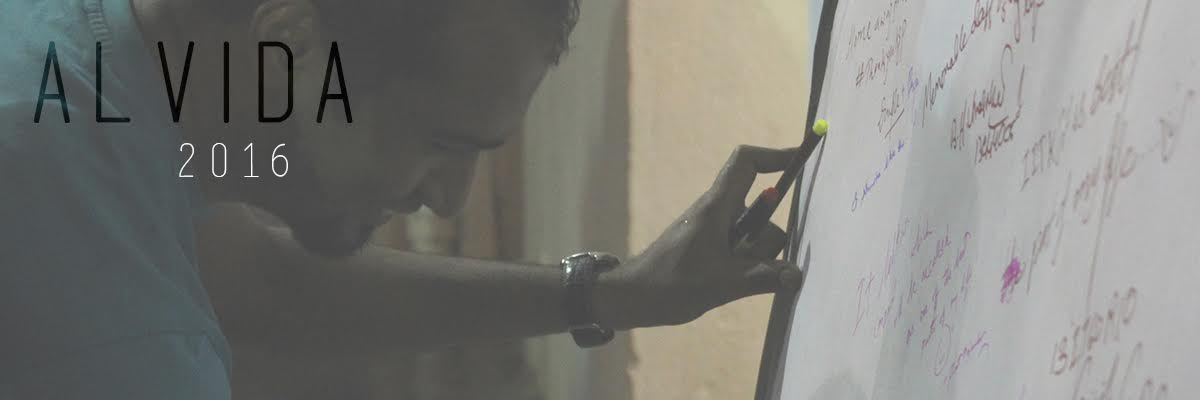
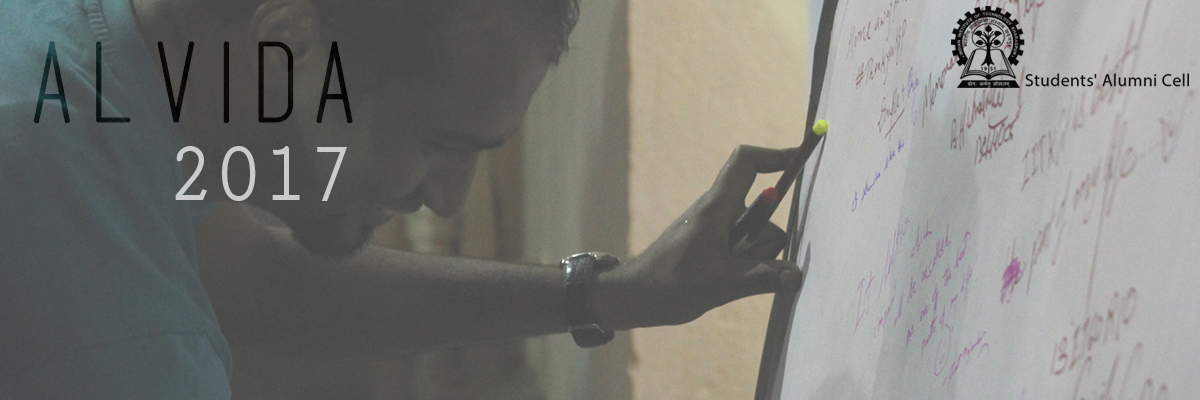
sac changes

Changed region(s): [[0.7708, 0.0, 1.0, 0.24], [0.1233, 0.36, 0.3083, 0.51]]

diff --git a/index.php b/index.php
@@ -207,7 +207,7 @@
 </div>
 <div class="heading">
   <center>
-    <h class="subheading"><b>Latest Programs</b></h>
+    <h class="subheading"><b>Latest Programmes</b></h>
   </center>
 </div>
 <div class="row">
@@ -217,11 +217,11 @@
      <img class="activator" src="img/latest programs/classgift.jpg" style="height: 225px;" >
     </div>
     <div class ="card-content">
-      <span class="card-title activator grey-text text-darken-4">Class Gift of 2015<i class="material-icons right">more_vert</i></span>
-      <p class="text_align">Campus Benches</p>
+      <span class="card-title activator grey-text text-darken-4">Class Gift of 2017<i class="material-icons right">more_vert</i></span>
+      <p class="text_align"><br></p>
     </div>
     <div class="card-reveal">
-      <span class="card-title grey-text text-darken-4">Class Gift of 2015</span>
+      <span class="card-title grey-text text-darken-4">Class Gift of 2017</span>
             <p class="text_align">The Senior Class Gift, an initiative under the 
               My Imprint Programme saw a large number of graduating students signing up for the programme.
                The programme gives an opportunity to the graduating batch to give something back to the Institute,
@@ -254,8 +254,8 @@
       <img class="activator" src="img/latest programs/guestlecture.jpg" style="height:225px">
     </div>
     <div class="card-content">
-      <span class="card-title activator grey-text text-darken-4">Guest Lecture<i class="material-icons right">more_vert</i></span>
-      <p class="text_align">& E-Guest Lectures</p>
+      <span class="card-title activator grey-text text-darken-4">Alumni Talks<i class="material-icons right">more_vert</i></span>
+      <p class="text_align"><br /></p>
     </div>
     <div class="card-reveal">
       <span class="card-title grey-text text-darken-4">Guest Lecture</span>
@@ -266,7 +266,7 @@
 <div class="col l3 s12 m6">
 <div class="card z-depth-0">
     <div class="card-image waves-effect waves-block waves-light">
-      <img class="activator" src="img/yearbook/yearbook.jpg" style="height:225px" >
+      <img class="activator" src="img/latest programs/year17.jpg" style="height:225px" >
     </div>
     <div class="card-content">
       <span class="card-title activator grey-text text-darken-4">Yearbook<i class="material-icons right">more_vert</i></span>

diff --git a/gallery.php b/gallery.php
@@ -42,6 +42,44 @@
 </style>
 </head>
 <body> 
+
+
+
+
+
+ <center>
+         <div class="heading ac-head" style="border:3px black solid; display: inline-block; padding-top: 2px; margin: 3px;padding-right: 20px;padding-left: 20px;" >
+            <h4><b>Student Alumni Meet'17</b> -Mumbai</h4>
+            </div>
+        </center>
+    <br>
+
+     <div class="row">
+    <div class="col l4 m4 s12">
+        
+            <img class="materialboxed normal" src="img/sam/Mumbai/1.jpg" width="430">
+        
+            </div>
+        <div class="col l4 m4 s12">
+            <img class="materialboxed normal" src="img/sam/Mumbai/2.jpg" width="430">
+        </div>
+        <div class="col l4 m4 s12">
+            
+                <img class="materialboxed normal" src="img/sam/Mumbai/3.jpg" width="430">
+            
+        </div>
+
+    </div>
+
+   
+
+
+
+
+
+
+
+
         <center>
          <div class="heading ac-head" style="border:3px black solid; display: inline-block; padding-top: 2px; margin: 3px;padding-right: 20px;padding-left: 20px;" >
             <h4><b>Student Alumni Meet</b> - Kolkata</h4> </div>

diff --git a/footer.php b/footer.php
@@ -40,7 +40,7 @@
                 <li><a class="soc-facebook" href="http://www.facebook.com/iitkgp.alumnicell?fref=ts&ref=br_tf" target="_blank"></a></li>
                 <li><a class="soc-twitter"  href="http://twitter.com/IITKgpAlumni" target="_blank"></a></li>
                 <li><a class="soc-linkedin"  href="https://www.linkedin.com/company-beta/13273135/" target="_blank"></a></li>
-                <li><a class="soc-youtube soc-icon-last" href="http://www.youtube.com/channel/UCtnSs1CT59Rd8L6VlOAxzRA" target="_blank"></a></li>
+                <li><a class="soc-youtube soc-icon-last" href="https://www.youtube.com/user/alumnicelliitkgp/videos" target="_blank"></a></li>
             </ul>
         </div>
 
@@ -50,7 +50,7 @@
 
   <div class="footer-copyright grey darken-3">
     <div class="container">
-    &copy; 2016 Students' Alumni Cell
+    &copy; 2017 Students' Alumni Cell
 
     </div>
 
